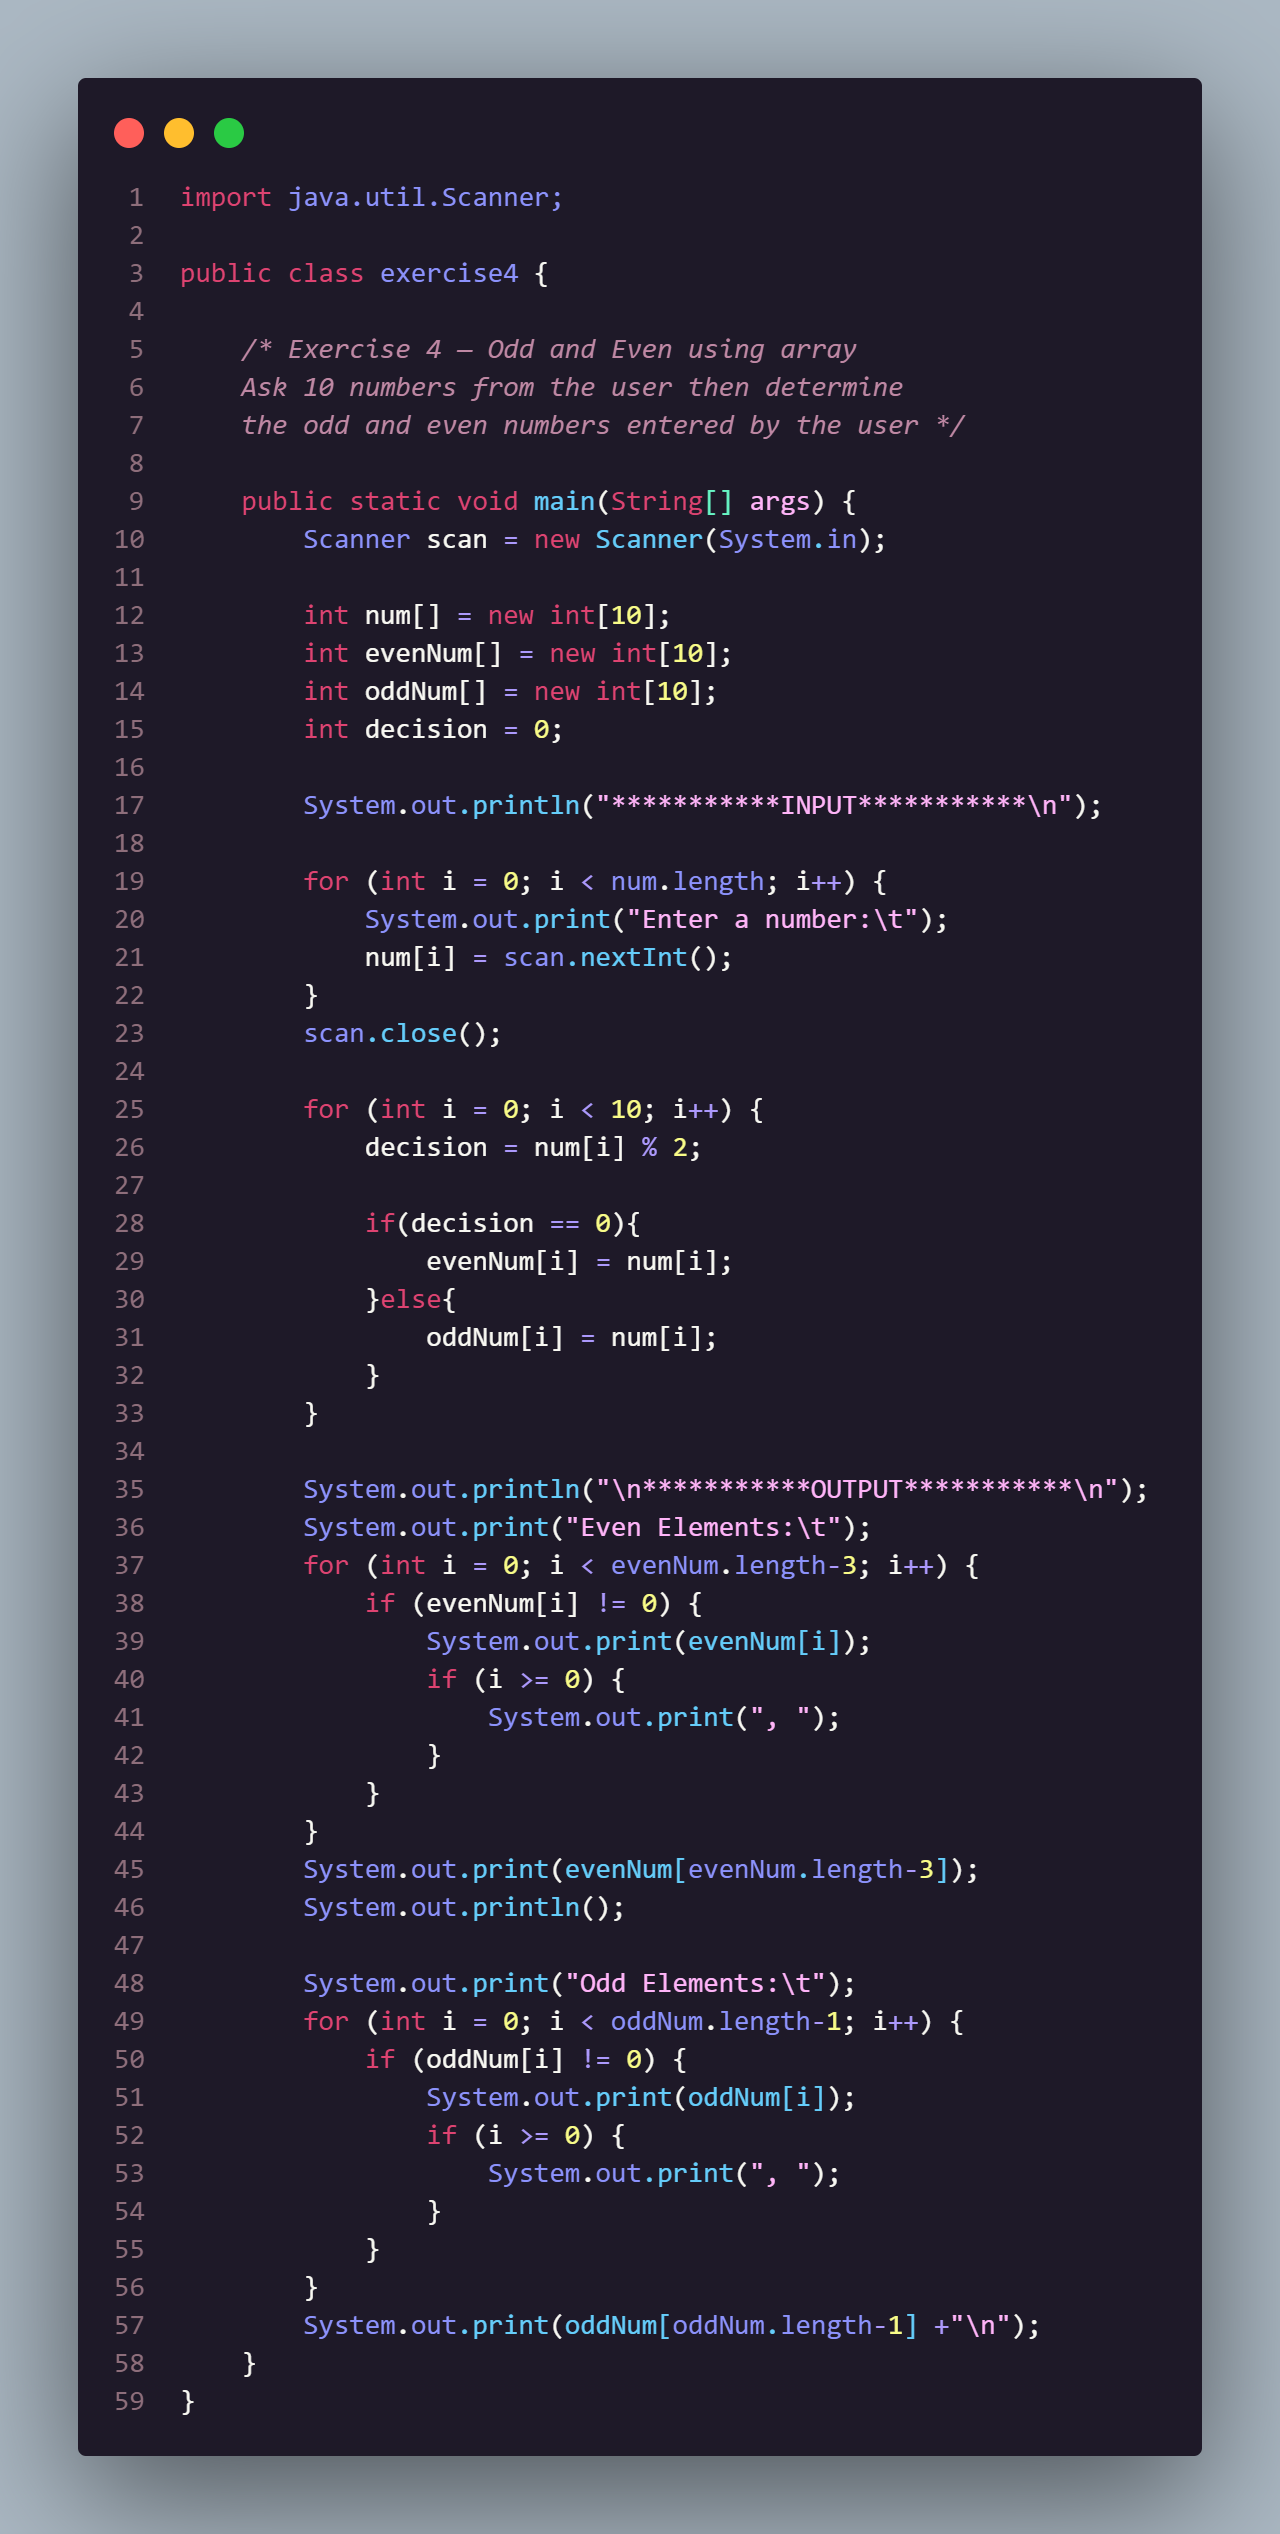
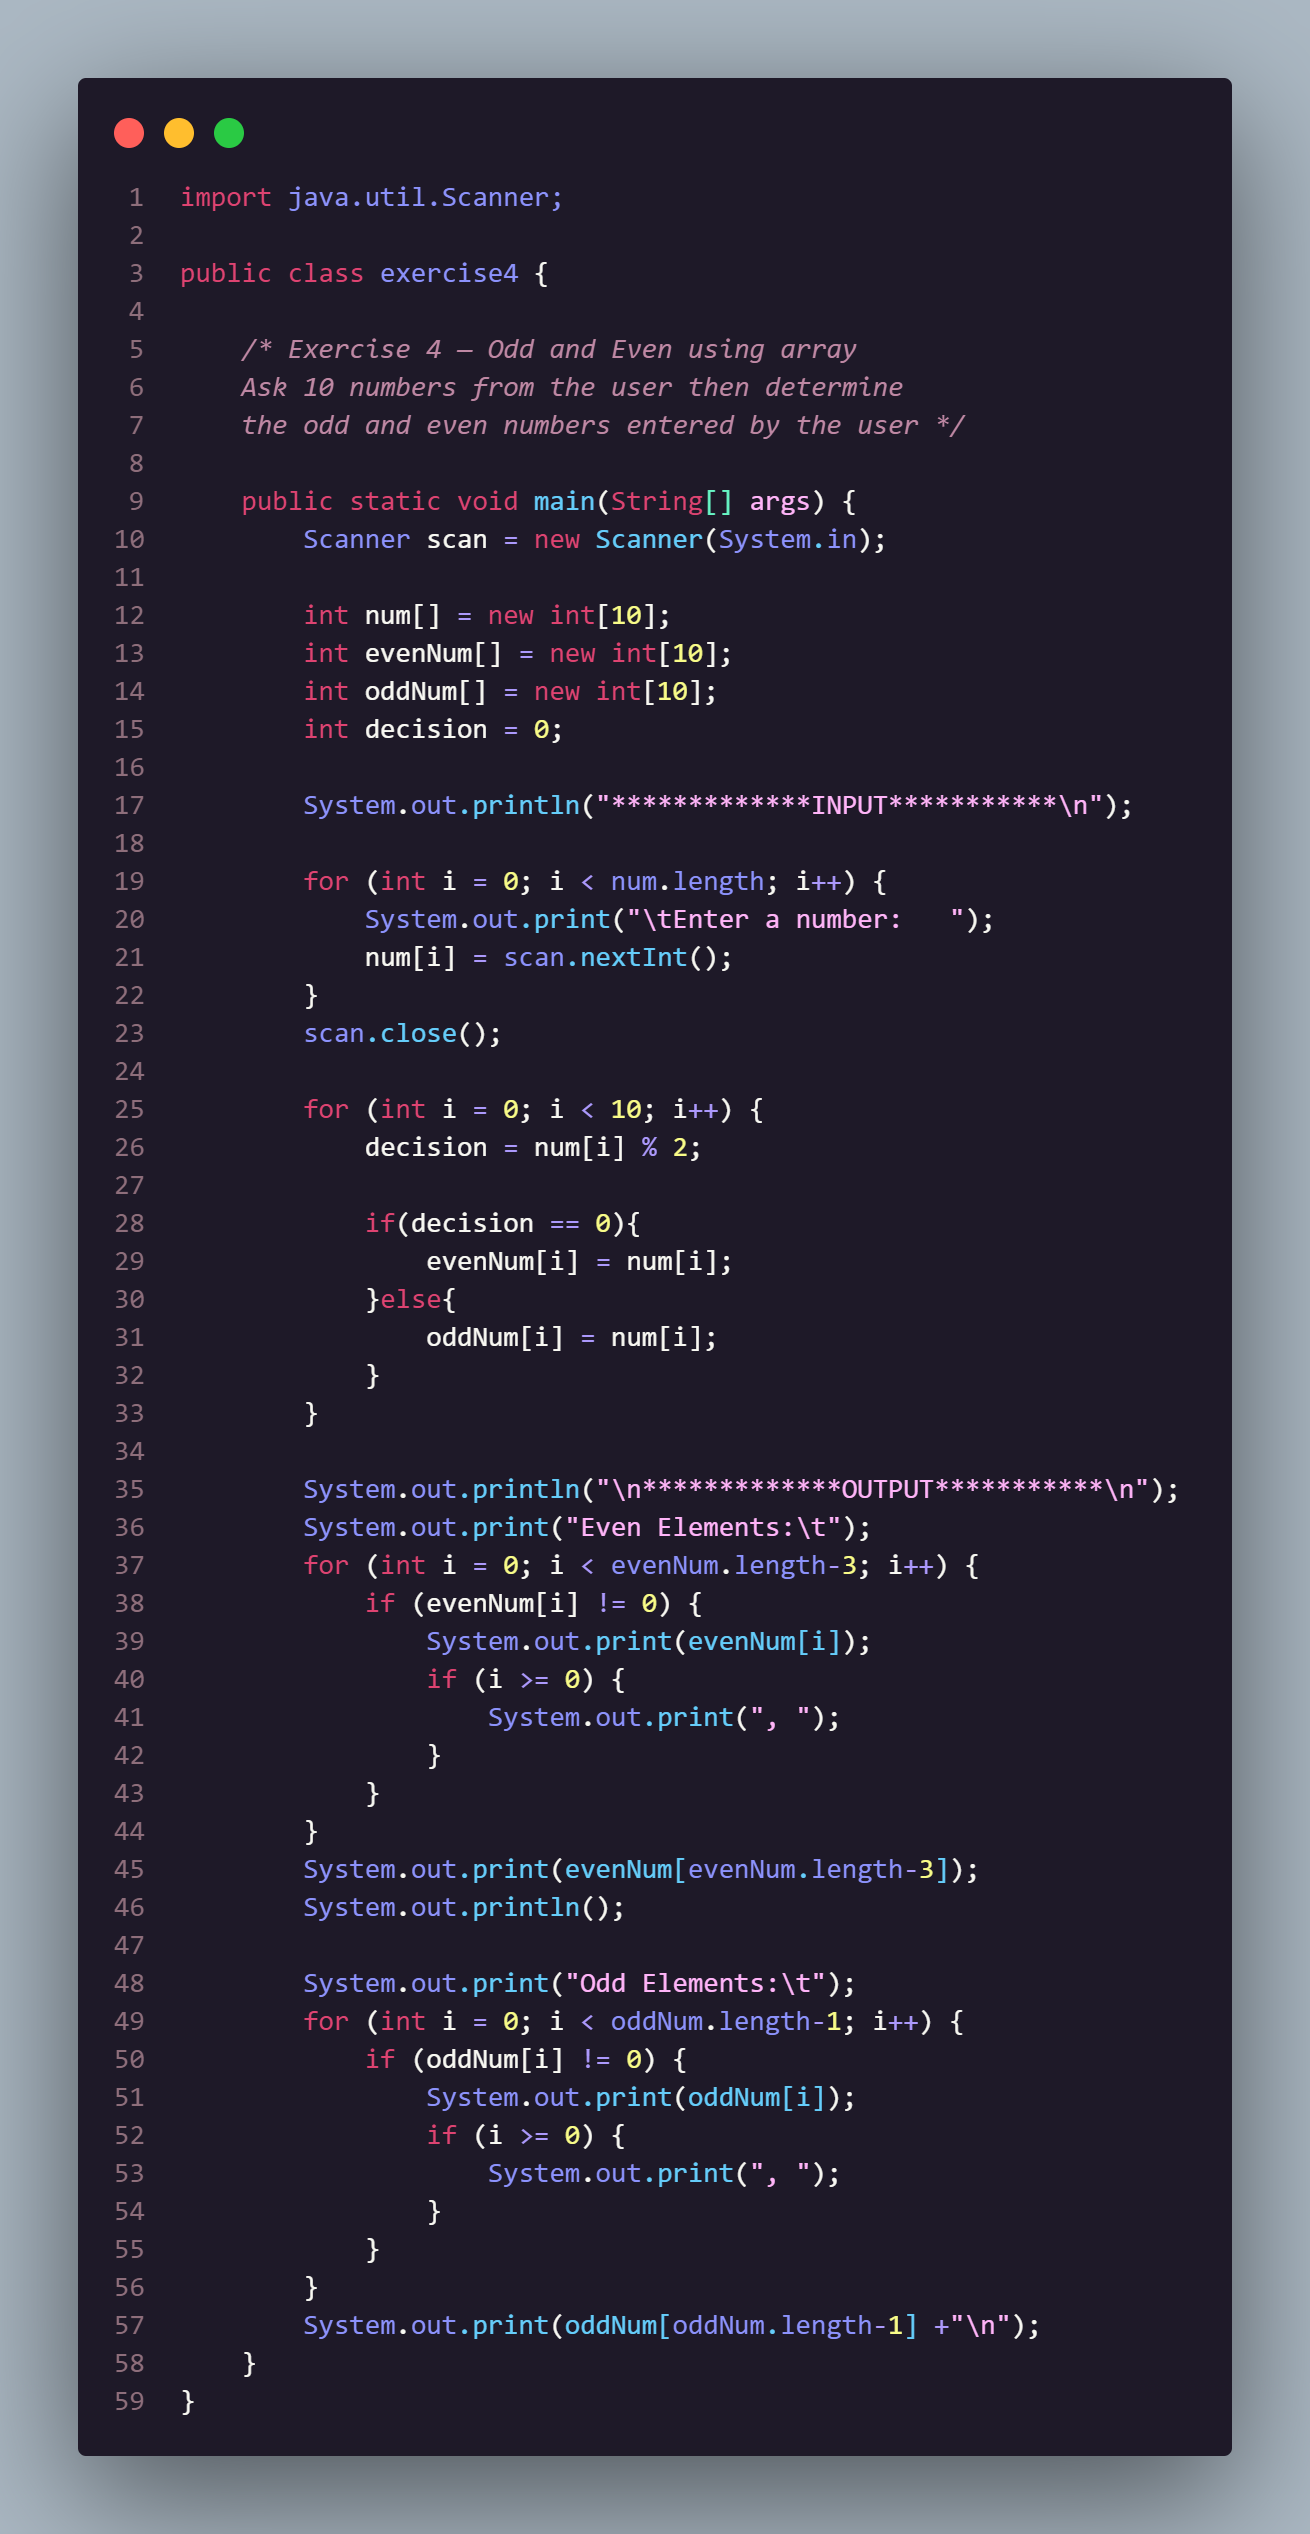
init

diff --git a/exercise4.java b/exercise4.java
@@ -14,10 +14,10 @@ public class exercise4 {
         int oddNum[] = new int[10];
         int decision = 0;
 
-        System.out.println("***********INPUT***********\n");
+        System.out.println("*************INPUT***********\n");
 
         for (int i = 0; i < num.length; i++) {
-            System.out.print("Enter a number:\t");
+            System.out.print("\tEnter a number:   ");
             num[i] = scan.nextInt();
         }
         scan.close();
@@ -32,7 +32,7 @@ public class exercise4 {
             }
         }
 
-        System.out.println("\n***********OUTPUT***********\n");
+        System.out.println("\n*************OUTPUT***********\n");
         System.out.print("Even Elements:\t");
         for (int i = 0; i < evenNum.length-3; i++) {
             if (evenNum[i] != 0) {

diff --git a/exercise9.java b/exercise9.java
@@ -24,7 +24,7 @@ public class exercise9{
         
         int i;
         for (i = 0; i < nameList.length; i++) {
-            if(name.equalsIgnoreCase(nameList[i])){
+            if(name.equals(nameList[i])){
                 examine = true;
             }
         }
@@ -38,7 +38,7 @@ public class exercise9{
         System.out.println();
 
         }
-        while(loop.equalsIgnoreCase("Y"));
+        while(loop.equals("Y"));
         System.out.println("SEARCHING STOPPED");  
         scan.close(); 
     }

diff --git a/exercise7.java b/exercise7.java
@@ -30,5 +30,6 @@ public class exercise7 {
             }
             System.out.println();
         }
+        System.out.println();
     }   
 }
